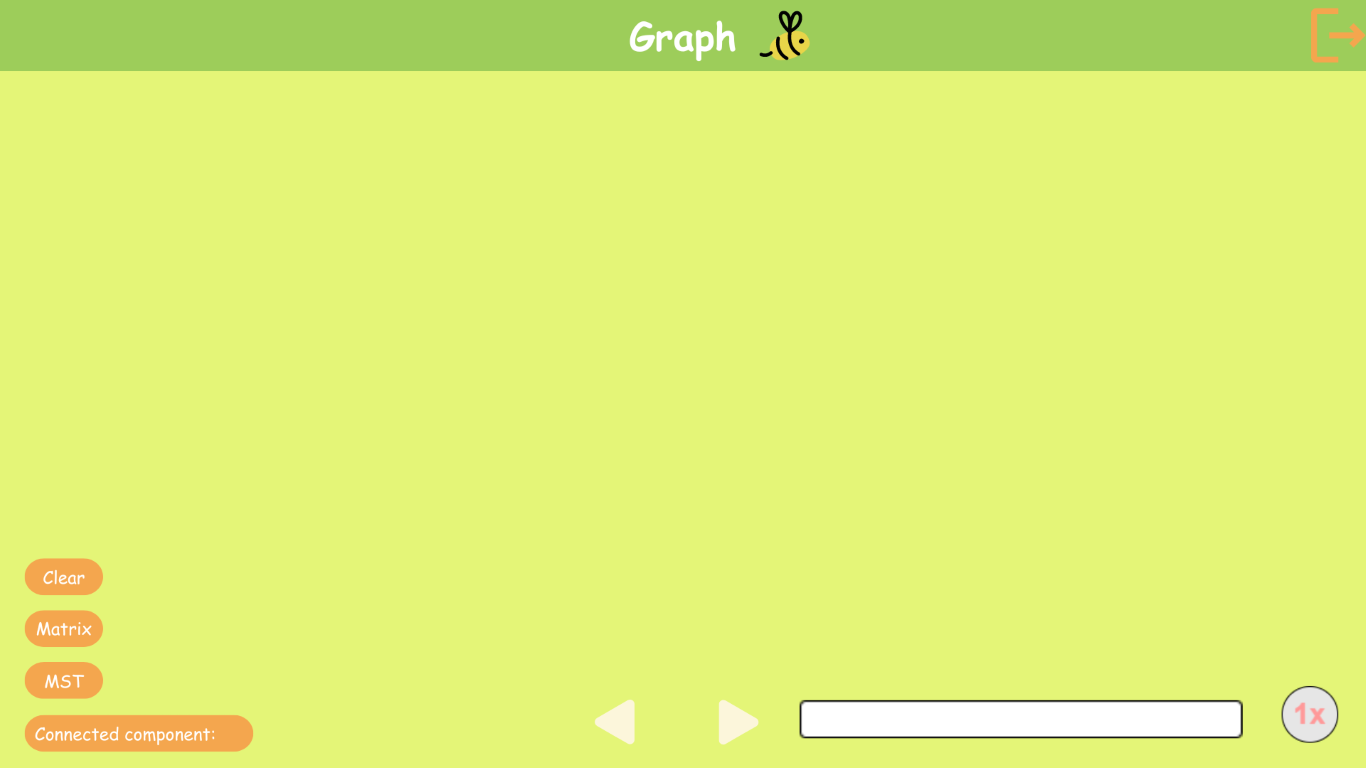
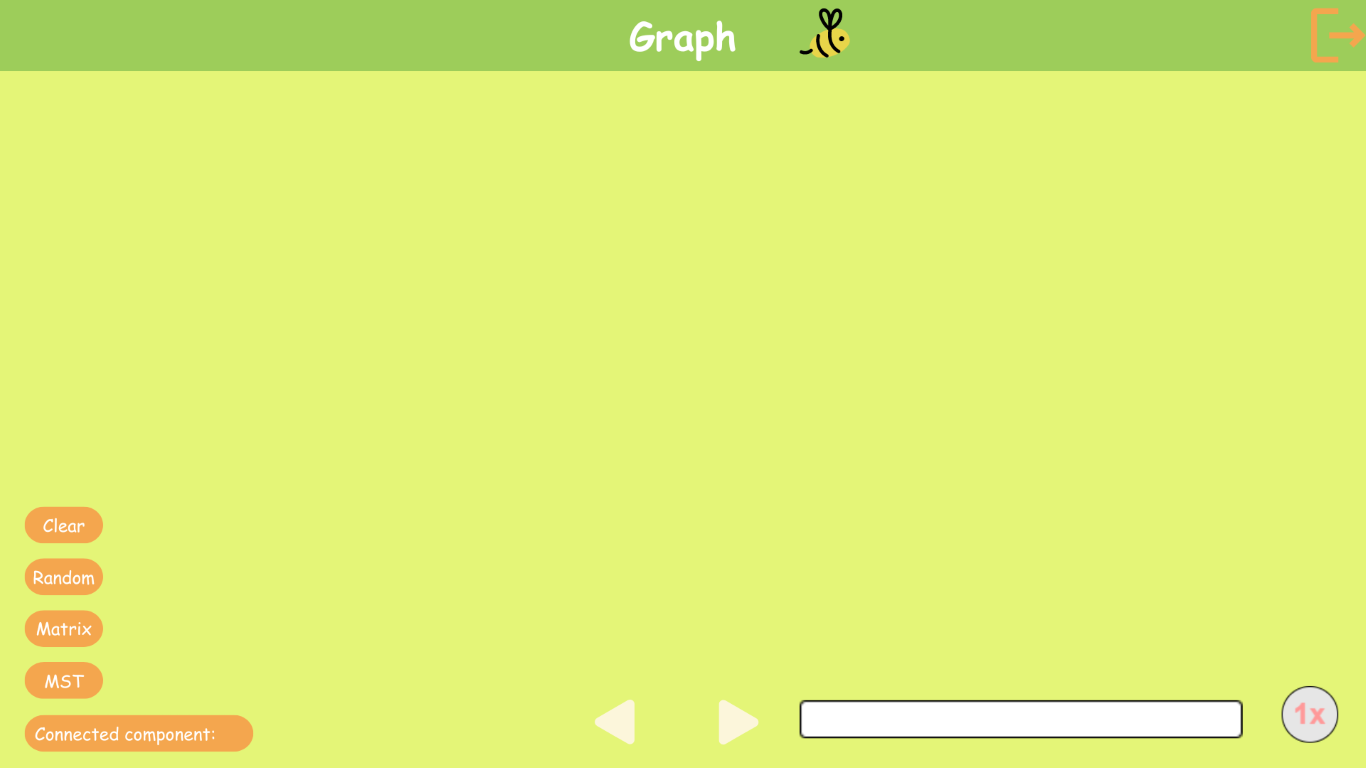
Graph: randomized data.

Changed region(s): [[0.5534, 0.0, 0.6457, 0.0938], [0.0, 0.6562, 0.0922, 0.7188], [0.0307, 0.75, 0.0615, 0.7812]]

diff --git a/render/graph.cpp b/render/graph.cpp
@@ -9,8 +9,8 @@ void GraphNode::draw() {
     Color outlineColor = ColorAlpha(ORANGE, alpha);
     Color textColor = ColorAlpha(BLACK, alpha);
 
-    if (colour > 0 && colour < 16) {
-        Color temp = graphColour[colour];
+    if (colour > 0) {
+        Color temp = graphColour[colour%7];
         outlineColor = ColorAlpha(temp, alpha);
         gradientEnd = ColorAlpha(temp, alpha);
         //outlineColor = ColorAlpha(temp, alpha);
@@ -38,25 +38,39 @@ void GraphNode::draw() {
     DrawText(balanceStr.c_str(), balancePos.x, balancePos.y, balanceFontSize, textColor);
 }
 
-void GraphNode::update(const Vector2& mousePosition, bool isMouseDown, bool isMouseUp) {
-    // Check if the mouse is down and within the node's radius
+void GraphNode::update(const Vector2& mousePosition, bool isMouseDown, bool isMouseUp, const std::vector<GraphNode*>& nodeList) {
     if (isMouseDown) {
         float distance = Vector2Distance(mousePosition, position);
-        if (distance <= radius) {
+        if (distance <= radius-5.0f) {
             isDragging = true;
         }
     }
 
-    // Update the position if the node is being dragged
     if (isDragging) {
-        position = mousePosition;
+        bool canMove = true;
+        Vector2 newPosition = mousePosition;
+
+        // Check if the new position would cause an overlap
+        for (const auto& otherNode : nodeList) {
+            if (otherNode != this) {
+                float distanceToOther = Vector2Distance(newPosition, otherNode->position);
+                if (distanceToOther < radius + otherNode->radius) {
+                    canMove = false;
+                    break;
+                }
+            }
+        }
+
+        if (canMove) {
+            position = newPosition;
+        }
     }
 
-    // Stop dragging when the mouse button is released
     if (isMouseUp) {
-        isDragging = false; // Stop dragging
+        isDragging = false;
     }
 }
+
 
 
 void GraphEdge::draw(std::vector<GraphNode*>& nodeList) {
@@ -65,8 +79,8 @@ void GraphEdge::draw(std::vector<GraphNode*>& nodeList) {
     if (start.x == 0 || end.x == 0) return;
     Color edgeColor = BLACK;
 
-    if (colour > 0 && colour < 16) {
-        Color temp = graphColour[colour];
+    if (colour > 0) {
+        Color temp = graphColour[colour%7];
 
         edgeColor = ColorAlpha(temp, alpha);
     }
@@ -106,7 +120,6 @@ void Graph::addNode(int val) {
     // Increment the number of vertices
     V++;
     //std::cout << Mat.size() << " " << Mat[0].size() << std::endl;
-    if (V == 6) std::cout << Mat[0][1] << std::endl;
 }
 
 Vector2 generateRandomPosition() {
@@ -328,9 +341,11 @@ void Graph::copyList() {
 
     // Copy nodes
     for (auto& node : nodeList) {
-        GraphNode* newNode = new GraphNode(node->ind, node->value, node->position);
+        GraphNode* newNode = new GraphNode(node->ind, node->value);
         newNode->colour = node->colour;
         newNode->visiting = node->visiting;
+        newNode->position = node->position;
+
         newNode->isDragging = node->isDragging;
         newNode->alpha = node->alpha;
         curList.push_back(newNode);
@@ -376,8 +391,8 @@ void Graph::updateState(float deltaTime, float& elapsedTime, int& stateIndex, fl
     // Interpolate node positions
     for (size_t i = 0; i < startList.size(); ++i) {
         Vector2 mixedPosition = {
-            startList[i]->position.x + G * (endList[i]->position.x - startList[i]->position.x),
-            startList[i]->position.y + G * (endList[i]->position.y - startList[i]->position.y)
+            nodeList[i]->position.x,
+            nodeList[i]->position.y
         };
         GraphNode* mixedNode = new GraphNode(startList[i]->ind,startList[i]->value, mixedPosition);
         mixedNode->colour = startList[i]->colour;
@@ -389,10 +404,7 @@ void Graph::updateState(float deltaTime, float& elapsedTime, int& stateIndex, fl
 
     // Interpolate edge positions and colors
     for (size_t i = 0; i < startEdges.size(); ++i) {
-        Vector2 mixedStartPos = {
-            startEdges[i]->startIndex + G * (endEdges[i]->startIndex - startEdges[i]->startIndex),
-            startEdges[i]->endIndex + G * (endEdges[i]->endIndex - startEdges[i]->endIndex)
-        };
+        
 
         GraphEdge* mixedEdge = new GraphEdge(
             startEdges[i]->startIndex,  // Since indices don't change, use the same index
@@ -480,9 +492,23 @@ void Graph::dragNodes() {
     bool isMouseDown = IsMouseButtonDown(MOUSE_LEFT_BUTTON);
     bool isMouseUp = IsMouseButtonReleased(MOUSE_LEFT_BUTTON);
 
-    // Update the node based on mouse input
-    for (auto node : curList) if (node) node->update(mousePosition, isMouseDown, isMouseUp);
-    for (auto node : nodeList) if (node) node->update(mousePosition, isMouseDown, isMouseUp);
+    bool updateNL = false;
+    bool updateCL = false;
+
+    for (auto node : nodeList) {
+        if (node) {
+            node->update(mousePosition, isMouseDown, isMouseUp, nodeList);
+           
+        }
+    }
+
+    for (auto node : curList) {
+        if (node ) {
+            node->update(mousePosition, isMouseDown, isMouseUp, curList);
+            
+        }
+    }
+
 
 }
 
@@ -564,7 +590,7 @@ void renderGraph(Screen& currentScreen) {
         DrawTexture(speed2x, changeSpeed.x, changeSpeed.y, WHITE);
     }
 
-    if (!graph.isInteracting(stateIndexGraph)) graph.dragNodes();
+    graph.dragNodes();
 
     if (!pauseGraph) DrawTexture(pauseButImg, pauseButton.x, pauseButton.y, WHITE);
     else DrawTexture(playButImg, pauseButton.x, pauseButton.y, WHITE);
@@ -653,15 +679,15 @@ void renderGraph(Screen& currentScreen) {
     float textPosX = ccGraph.x + ccGraph.width * 3 / 4 - textWidth / 2+ 42.0f;
     float textPosY = ccGraph.y + ccGraph.height / 2 - fontSize / 2;
     DrawTextEx(font, TextFormat("%d", size), { textPosX - 10, textPosY }, fontSize, 1, WHITE);
-    for (int i = 0; i < 3; i++) {
-        if (checkCollision(hashtableOptions[i])) DrawRectangleRec(hashtableOptions[i], Color{ 0, 255, 0, 32 });
+    for (int i = 0; i < 5; i++) {
+        if (i != 3) if (checkCollision(hashtableOptions[i])) DrawRectangleRec(hashtableOptions[i], Color{ 0, 255, 0, 32 });
     }
     if (checkCollision(ccGraph)) DrawRectangleRec(ccGraph, Color{ 0, 255, 0, 32 });
     if (checkCollision(returnBar)) DrawRectangleRec(returnBar, Color{ 0, 255, 0, 32 });
     if (checkClick(returnBar) || checkClick(returnButton)) currentScreen = MENU;
 
 
-    for (int i = 0; i < 3; i++) {
+    for (int i = 0; i < 5; i++) {
         if (checkClick(hashtableOptions[i])) {
             if (!graphInteracting) {
 
@@ -693,7 +719,7 @@ void graphInteractingFunction(Interact& state) {
     {
     case CREATE:
     {
-        GraphClear(state);
+        GraphRandom(state);
     } break;
     case INSERT:
     {
@@ -706,6 +732,10 @@ void graphInteractingFunction(Interact& state) {
     case SEARCH:
     {
         GraphConnectedComponents(state);
+    } break;
+    case FILEINTER:
+    {
+        GraphClear(state);
     } break;
 
     default: break;
@@ -764,5 +794,52 @@ void GraphConnectedComponents(Interact& state) {
     state = REST;
 }
 
+void GraphRandom(Interact& state) {
+    graph.clearGraph();
+    graph = Graph();
+    int s = rand() % 15;
+    std::vector<std::vector<int>> randomMatrix = generateRandomAdjacencyMatrix(s, 1, 99);
+    graph.initializeFromMatrix(randomMatrix);
+    graph.copyList();
+    state = REST;
+}
 
+std::vector<std::vector<int>> generateRandomAdjacencyMatrix(int numNodes, int minValue, int maxValue, float density, bool allowSelfLoops) {
+    // Initialize the adjacency matrix with all zeros
+    std::vector<std::vector<int>> adjacencyMatrix(numNodes, std::vector<int>(numNodes, 0));
 
+    // Seed the random number generator with the current time
+    std::srand(static_cast<unsigned int>(std::time(nullptr)));
+
+    // Calculate the maximum possible number of edges in an undirected graph
+    int maxEdges = numNodes * (numNodes - 1) / (allowSelfLoops ? 1 : 2);
+
+    // Calculate the number of edges based on the desired density
+    int desiredEdges = static_cast<int>(density * maxEdges);
+
+    // Generate a list of all possible edges
+    std::vector<std::pair<int, int>> potentialEdges;
+    for (int i = 0; i < numNodes; ++i) {
+        for (int j = (allowSelfLoops ? 0 : i + 1); j < numNodes; ++j) {
+            potentialEdges.emplace_back(i, j);
+            if (!allowSelfLoops && i != j) {
+                potentialEdges.emplace_back(j, i); // Ensure symmetry
+            }
+        }
+    }
+
+    // Shuffle the list of potential edges
+    std::random_shuffle(potentialEdges.begin(), potentialEdges.end());
+
+    // Add edges to the adjacency matrix based on the desired number of edges
+    for (int i = 0; i < desiredEdges && i < potentialEdges.size(); ++i) {
+        int u = potentialEdges[i].first;
+        int v = potentialEdges[i].second;
+        int weight = minValue + std::rand() % (maxValue - minValue + 1);
+
+        adjacencyMatrix[u][v] = weight;
+        adjacencyMatrix[v][u] = weight; // Ensure symmetry
+    }
+
+    return adjacencyMatrix;
+}

diff --git a/render/Render.h b/render/Render.h
@@ -90,7 +90,7 @@ extern Rectangle TrieSearchOk;
 extern Rectangle ccGraph;
 
 
-constexpr const Color graphColour[5] = { MAGENTA, MAROON, DARKBLUE, DARKBROWN, DARKGRAY };
+constexpr const Color graphColour[7] = { YELLOW, MAROON, DARKBLUE, DARKBROWN, MAGENTA, DARKGREEN, GRAY};
 constexpr float minX = 200.0f;
 constexpr float maxX = 1300.0f;
 constexpr float minY = 200.0f;
@@ -125,6 +125,8 @@ Vector2 divideVector2(Vector2 v, float scalar);
 float magnitudeVector2(Vector2 v);
 
 Vector2 normalizeVector2(Vector2 v);
+
+Vector2 Vector2Scale(const Vector2& v, float scalar);
 
 Vector2 CalculateCenteredTextPosition(Vector2 texturePos, float textureWidth, float textureHeight, const char* text, int fontSize);
 
@@ -253,3 +255,7 @@ void GraphFile(Interact& state);
 void GraphMSTPrim(Interact& state);
 
 void GraphConnectedComponents(Interact& state);
+
+void GraphRandom(Interact& state);
+
+std::vector<std::vector<int>> generateRandomAdjacencyMatrix(int numNodes, int minValue, int maxValue, float density = 0.3f, bool allowSelfLoops = false);

diff --git a/render/graph.h b/render/graph.h
@@ -15,7 +15,7 @@ struct GraphNode {
 		ind(index), value(val), position(pos) {}
 
 	void draw();
-	void update(const Vector2& mousePosition, bool isMouseDown, bool isMouseUp);
+	void GraphNode::update(const Vector2& mousePosition, bool isMouseDown, bool isMouseUp, const std::vector<GraphNode*>& nodeList);
 };
 
 

diff --git a/render/vector2D_helper.cpp b/render/vector2D_helper.cpp
@@ -47,3 +47,7 @@ float Vector2Distance(const Vector2& v1, const Vector2& v2) {
 
     return std::sqrt(dx * dx + dy * dy);
 }
+
+Vector2 Vector2Scale(const Vector2& v, float scalar) {
+    return { v.x * scalar, v.y * scalar };
+}
